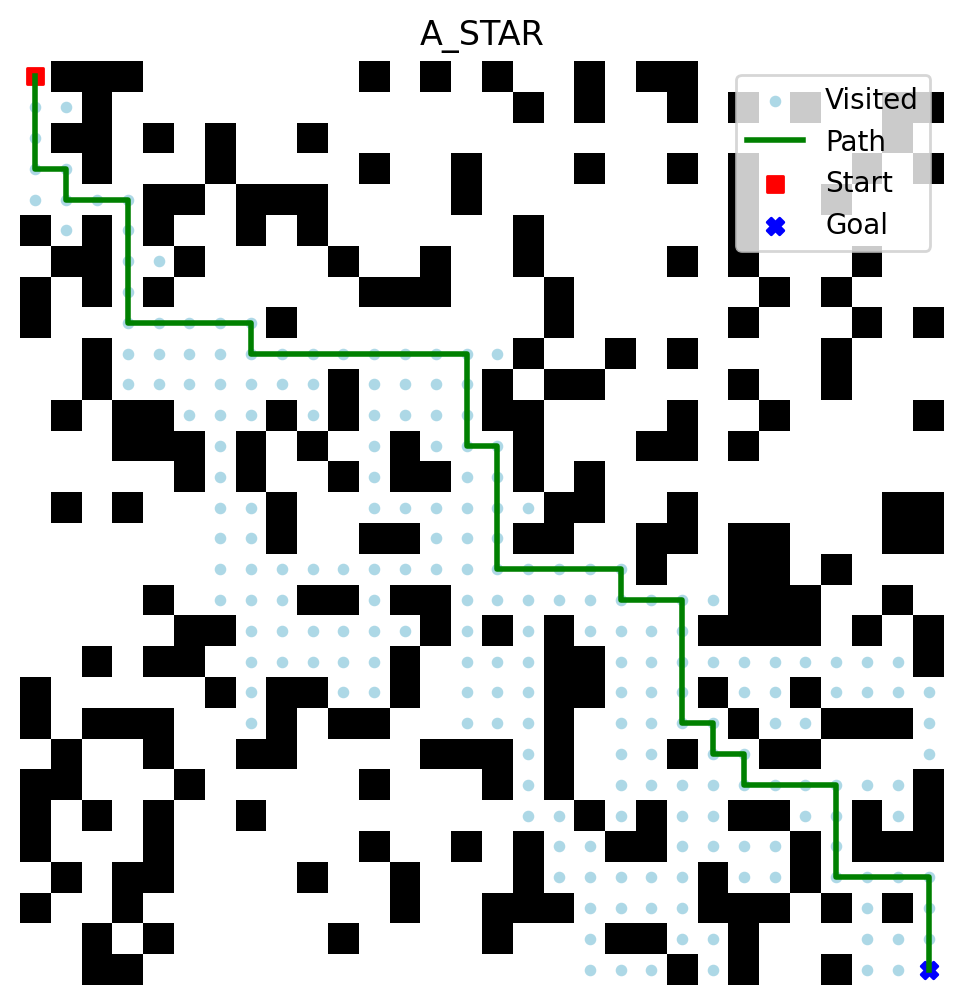
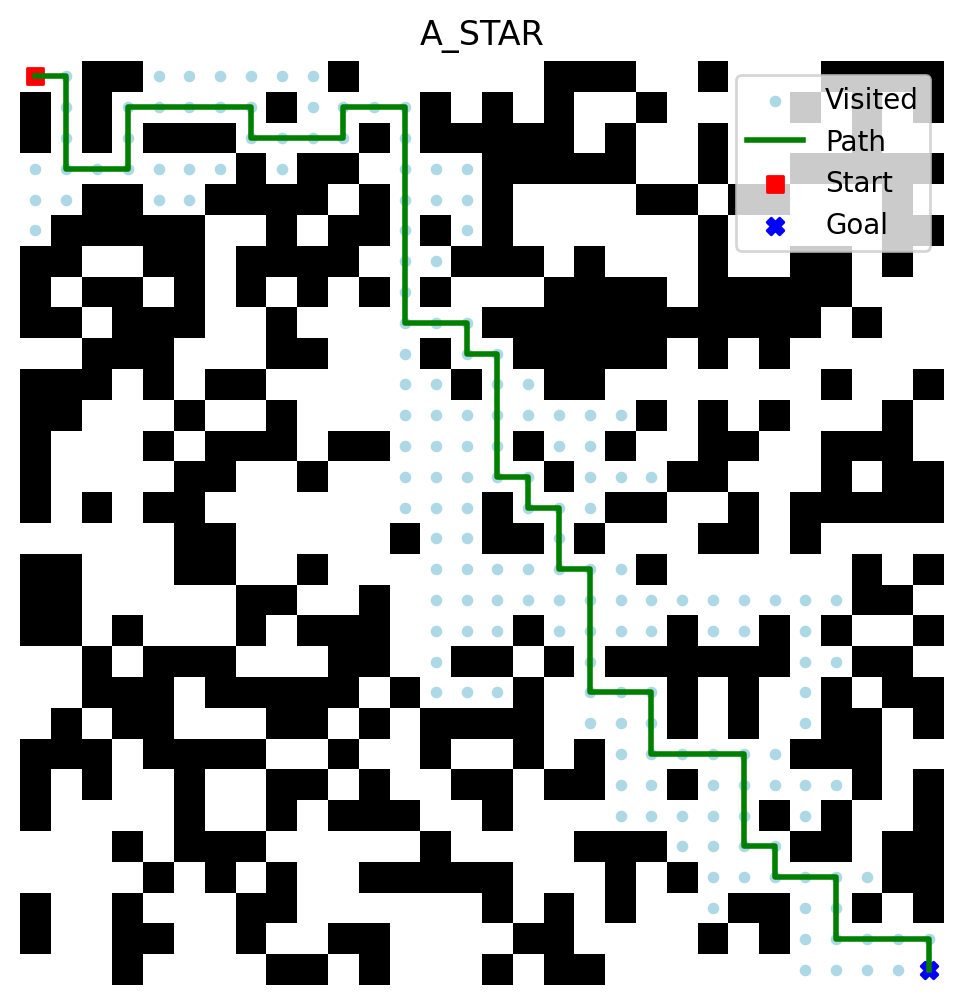
show_results_window

diff --git a/maze/visualize.py b/maze/visualize.py
@@ -8,6 +8,7 @@
 """
 
 import matplotlib.pyplot as plt
+from tabulate import tabulate
 
 
 def draw_solution(maze, start, goal, result, filename):
@@ -31,3 +32,48 @@ def draw_solution(maze, start, goal, result, filename):
     plt.axis("off")
     plt.savefig(filename, dpi=200, bbox_inches="tight")
     plt.close()
+
+
+def show_results_window(maze, start, goal, results, df):
+    """
+    Zobrazí výsledky všech algoritmů vedle sebe v jednom okně
+    + tabulku výsledků pod obrázky.
+    """
+    fig, axes = plt.subplots(1, len(results), figsize=(5 * len(results), 5))
+
+    if len(results) == 1:
+        axes = [axes]  # zajistí iterovatelnost i pro 1 graf
+
+    for ax, res in zip(axes, results):
+        ax.imshow(maze, cmap="gray_r")
+
+        if res["visited"]:
+            ys = [r for (r, c) in res["visited"]]
+            xs = [c for (r, c) in res["visited"]]
+            ax.scatter(xs, ys, c="lightblue", s=10)
+
+        if res["path"]:
+            ys = [r for (r, c) in res["path"]]
+            xs = [c for (r, c) in res["path"]]
+            ax.plot(xs, ys, c="green", linewidth=2)
+
+        ax.scatter([start[1]], [start[0]], c="red", marker="s")
+        ax.scatter([goal[1]], [goal[0]], c="blue", marker="X")
+
+        ax.set_title(res["name"])
+        ax.axis("off")
+
+    # pod grafy tabulka
+    plt.figtext(
+        0.5,
+        -0.05,
+        tabulate(df, headers="keys", tablefmt="grid", showindex=False),
+        ha="center",
+        va="top",
+        fontsize=10,
+        family="monospace",
+    )
+
+    plt.tight_layout()
+    plt.show()
+

diff --git a/main.py b/main.py
@@ -16,9 +16,18 @@ if __name__ == "__main__":
     rows, cols = 30, 30
     start, goal = (0, 0), (29, 29)
 
-    # složka na výsledky
     output_dir = "outputs"
     os.makedirs(output_dir, exist_ok=True)
+
+    # ------------------------
+    # PARAMETRY OD UŽIVATELE
+    # ------------------------
+    try:
+        density = float(input("Zadej hustotu zdí (0–1) [0.3]: ") or 0.3)
+        seed = int(input("Zadej seed [0]: ") or 0)
+    except ValueError:
+        print("⚠ Špatný vstup – použity výchozí hodnoty.")
+        density, seed = 0.3, 0
 
     # ------------------------
     # GENEROVÁNÍ S KONTROLOU
@@ -26,7 +35,9 @@ if __name__ == "__main__":
     valid = False
     seed = 0
     while not valid and seed < 50:
-        maze_map = maze.gen_maze(rows, cols, density=0.3, seed=seed)
+        maze_map = maze.gen_maze(
+            rows, cols, density=density, seed=seed
+        )  # maze_map = maze.gen_maze(rows, cols, density=0.3, seed=seed)
         maze_map[start] = 0
         maze_map[goal] = 0
         if maze.bfs(maze_map, start, goal, maze.is_free)["path"]:
@@ -69,3 +80,4 @@ if __name__ == "__main__":
 
     df.to_csv(os.path.join(output_dir, "vysledky.csv"), index=False)
     print(f"\nVýsledky a obrázky byly uloženy do složky '{output_dir}'.")
+    maze.show_results_window(maze_map, start, goal, results, df)

diff --git a/maze/__init__.py b/maze/__init__.py
@@ -9,6 +9,14 @@
 
 from .algorithms import bfs, dfs, astar
 from .generator import gen_maze, is_free
-from .visualize import draw_solution
+from .visualize import draw_solution, show_results_window
 
-__all__ = ["bfs", "dfs", "astar", "gen_maze", "is_free", "draw_solution"]
+__all__ = [
+    "bfs",
+    "dfs",
+    "astar",
+    "gen_maze",
+    "is_free",
+    "draw_solution",
+    "show_results_window",
+]
